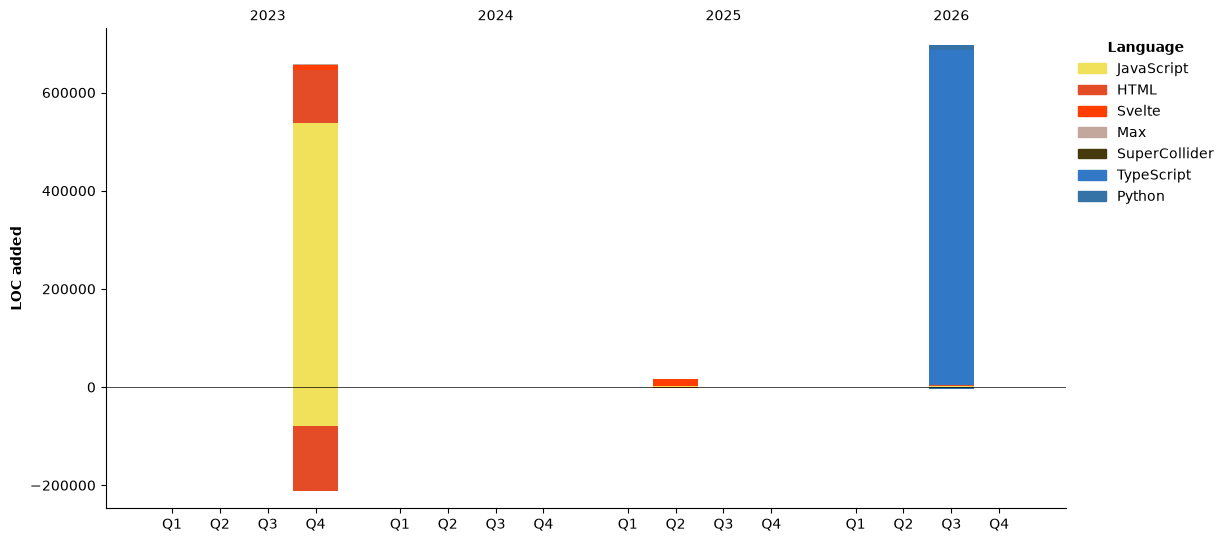
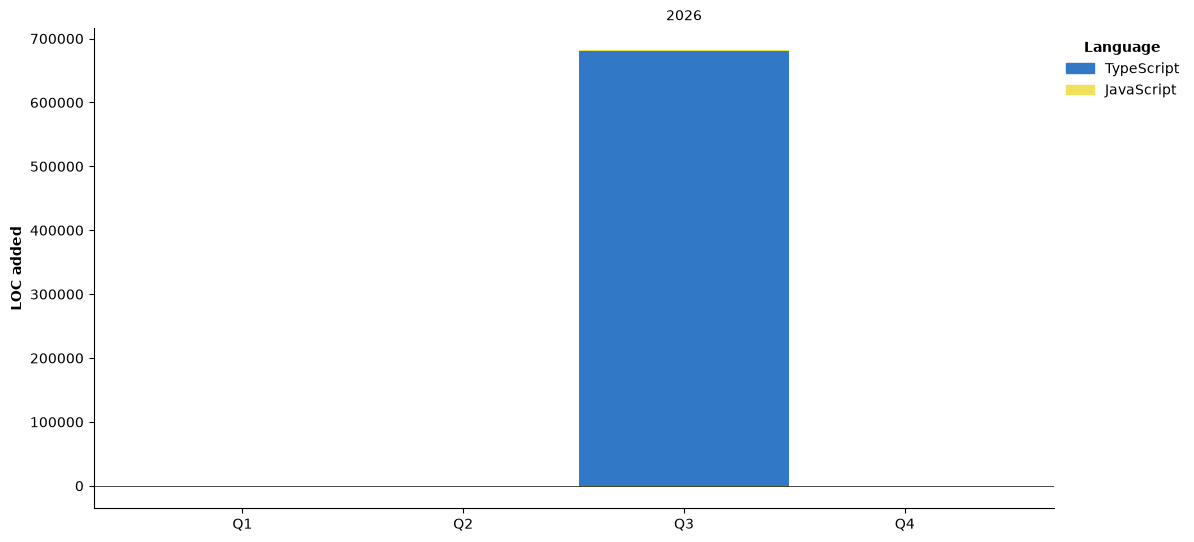
Update Activity Overview

diff --git a/README.md b/README.md
@@ -8,93 +8,58 @@
 ## ⚡ Activity Overview
 
 <!--START_SECTION:activity-->
-![Code Time](http://img.shields.io/badge/Code%20Time-24%20hrs%2034%20mins-blue?style=flat)
+![Code Time](http://img.shields.io/badge/Code%20Time-28%20hrs%2028%20mins-blue?style=flat)
 
-![AI Code Time](http://img.shields.io/badge/AI%20Code%20Time-6%20hrs%2024%20mins-blue?style=flat)
+![Lines of code](https://img.shields.io/badge/From%20Hello%20World%20I%27ve%20Written-681.84%20thousand%20lines%20of%20code-blue?style=flat)
 
-![Profile Views](http://img.shields.io/badge/Profile%20Views-3-blue?style=flat)
-
-![Lines of code](https://img.shields.io/badge/From%20Hello%20World%20I%27ve%20Written-1.37%20million%20lines%20of%20code-blue?style=flat)
-
-**🐱 My GitHub Data** 
-
-> 📦 8.5 MB Used in GitHub's Storage 
- > 
-> 🏆 358 Contributions in the Year 2026
- > 
-> 🚫 Not Opted to Hire
- > 
-> 📜 20 Public Repositories 
- > 
-> 🔑 9 Private Repositories 
- > 
-**I'm a Night 🦉** 
+**I'm an Early 🐤** 
 
 ```text
-🌞 Morning                22 commits          ░░░░░░░░░░░░░░░░░░░░░░░░░   01.76 % 
-🌆 Daytime                554 commits         ███████████░░░░░░░░░░░░░░   44.32 % 
-🌃 Evening                384 commits         ████████░░░░░░░░░░░░░░░░░   30.72 % 
-🌙 Night                  290 commits         ██████░░░░░░░░░░░░░░░░░░░   23.20 % 
+🌞 Morning                11 commits          ⣿⣿⣀⣀⣀⣀⣀⣀⣀⣀⣀⣀⣀⣀⣀⣀⣀⣀⣀⣀⣀⣀⣀⣀⣀   08.27 % 
+🌆 Daytime                61 commits          ⣿⣿⣿⣿⣿⣿⣿⣿⣿⣿⣿⣀⣀⣀⣀⣀⣀⣀⣀⣀⣀⣀⣀⣀⣀   45.86 % 
+🌃 Evening                61 commits          ⣿⣿⣿⣿⣿⣿⣿⣿⣿⣿⣿⣀⣀⣀⣀⣀⣀⣀⣀⣀⣀⣀⣀⣀⣀   45.86 % 
+🌙 Night                  0 commits           ⣀⣀⣀⣀⣀⣀⣀⣀⣀⣀⣀⣀⣀⣀⣀⣀⣀⣀⣀⣀⣀⣀⣀⣀⣀   00.00 % 
 ```
-📅 **I'm Most Productive on Tuesday** 
+📅 **I'm Most Productive on Wednesday** 
 
 ```text
-Monday                   64 commits          █░░░░░░░░░░░░░░░░░░░░░░░░   05.12 % 
-Tuesday                  348 commits         ███████░░░░░░░░░░░░░░░░░░   27.84 % 
-Wednesday                279 commits         ██████░░░░░░░░░░░░░░░░░░░   22.32 % 
-Thursday                 125 commits         ██░░░░░░░░░░░░░░░░░░░░░░░   10.00 % 
-Friday                   315 commits         ██████░░░░░░░░░░░░░░░░░░░   25.20 % 
-Saturday                 51 commits          █░░░░░░░░░░░░░░░░░░░░░░░░   04.08 % 
-Sunday                   68 commits          █░░░░░░░░░░░░░░░░░░░░░░░░   05.44 % 
+Monday                   9 commits           ⣿⣿⣀⣀⣀⣀⣀⣀⣀⣀⣀⣀⣀⣀⣀⣀⣀⣀⣀⣀⣀⣀⣀⣀⣀   06.77 % 
+Tuesday                  0 commits           ⣀⣀⣀⣀⣀⣀⣀⣀⣀⣀⣀⣀⣀⣀⣀⣀⣀⣀⣀⣀⣀⣀⣀⣀⣀   00.00 % 
+Wednesday                65 commits          ⣿⣿⣿⣿⣿⣿⣿⣿⣿⣿⣿⣿⣀⣀⣀⣀⣀⣀⣀⣀⣀⣀⣀⣀⣀   48.87 % 
+Thursday                 0 commits           ⣀⣀⣀⣀⣀⣀⣀⣀⣀⣀⣀⣀⣀⣀⣀⣀⣀⣀⣀⣀⣀⣀⣀⣀⣀   00.00 % 
+Friday                   42 commits          ⣿⣿⣿⣿⣿⣿⣿⣿⣀⣀⣀⣀⣀⣀⣀⣀⣀⣀⣀⣀⣀⣀⣀⣀⣀   31.58 % 
+Saturday                 0 commits           ⣀⣀⣀⣀⣀⣀⣀⣀⣀⣀⣀⣀⣀⣀⣀⣀⣀⣀⣀⣀⣀⣀⣀⣀⣀   00.00 % 
+Sunday                   17 commits          ⣿⣿⣿⣀⣀⣀⣀⣀⣀⣀⣀⣀⣀⣀⣀⣀⣀⣀⣀⣀⣀⣀⣀⣀⣀   12.78 % 
 ```
 
 
 📊 **This Week I Spent My Time On** 
 
 ```text
-🕑 Time Zone: Asia/Seoul
-
 💬 Programming Languages: 
-Text                     3 hrs 45 mins       ████████████████████████░   94.10 % 
-JSON                     8 mins              █░░░░░░░░░░░░░░░░░░░░░░░░   03.38 % 
-INI                      5 mins              █░░░░░░░░░░░░░░░░░░░░░░░░   02.21 % 
-CSS                      0 secs              ░░░░░░░░░░░░░░░░░░░░░░░░░   00.21 % 
-Other                    0 secs              ░░░░░░░░░░░░░░░░░░░░░░░░░   00.09 % 
+Text                     3 hrs 48 mins       ⣿⣿⣿⣿⣿⣿⣿⣿⣿⣿⣿⣿⣀⣀⣀⣀⣀⣀⣀⣀⣀⣀⣀⣀⣀   47.74 % 
+TypeScript               3 hrs 10 mins       ⣿⣿⣿⣿⣿⣿⣿⣿⣿⣿⣀⣀⣀⣀⣀⣀⣀⣀⣀⣀⣀⣀⣀⣀⣀   39.75 % 
+JSON                     20 mins             ⣿⣀⣀⣀⣀⣀⣀⣀⣀⣀⣀⣀⣀⣀⣀⣀⣀⣀⣀⣀⣀⣀⣀⣀⣀   04.31 % 
+TSConfig                 14 mins             ⣿⣀⣀⣀⣀⣀⣀⣀⣀⣀⣀⣀⣀⣀⣀⣀⣀⣀⣀⣀⣀⣀⣀⣀⣀   03.11 % 
+HTML                     6 mins              ⣀⣀⣀⣀⣀⣀⣀⣀⣀⣀⣀⣀⣀⣀⣀⣀⣀⣀⣀⣀⣀⣀⣀⣀⣀   01.39 % 
 
 🔥 Editors: 
-VS Code                  3 hrs 59 mins       █████████████████████████   100.00 % 
+VS Code                  7 hrs 58 mins       ⣿⣿⣿⣿⣿⣿⣿⣿⣿⣿⣿⣿⣿⣿⣿⣿⣿⣿⣿⣿⣿⣿⣿⣿⣿   100.00 % 
 
 🐱💻 Projects: 
-Yanji_Zone_H             3 hrs 59 mins       █████████████████████████   100.00 % 
-
-💻 Operating System: 
-Windows                  3 hrs 59 mins       █████████████████████████   100.00 % 
+Yanji_Zone_H             4 hrs 2 mins        ⣿⣿⣿⣿⣿⣿⣿⣿⣿⣿⣿⣿⣿⣀⣀⣀⣀⣀⣀⣀⣀⣀⣀⣀⣀   50.70 % 
+Ableton_Extension_test   2 hrs 30 mins       ⣿⣿⣿⣿⣿⣿⣿⣿⣀⣀⣀⣀⣀⣀⣀⣀⣀⣀⣀⣀⣀⣀⣀⣀⣀   31.37 % 
+extensions-sdk-1.0.0-beta1 hr 3 mins         ⣿⣿⣿⣀⣀⣀⣀⣀⣀⣀⣀⣀⣀⣀⣀⣀⣀⣀⣀⣀⣀⣀⣀⣀⣀   13.36 % 
+Ablton_Extensions_SDK_1.011 mins             ⣿⣀⣀⣀⣀⣀⣀⣀⣀⣀⣀⣀⣀⣀⣀⣀⣀⣀⣀⣀⣀⣀⣀⣀⣀   02.40 % 
+Ableton_Extensions_SDK_1.6 mins              ⣀⣀⣀⣀⣀⣀⣀⣀⣀⣀⣀⣀⣀⣀⣀⣀⣀⣀⣀⣀⣀⣀⣀⣀⣀   01.31 % 
 ```
-
-🤖 **AI Coding This Week** 
-
-```text
-No AI Coding Activity Tracked This Week
-```
-
-**I Mostly Code in JavaScript** 
-
-```text
-JavaScript               11 repos            ██████████████░░░░░░░░░░░   55.00 % 
-Svelte                   3 repos             ████░░░░░░░░░░░░░░░░░░░░░   15.00 % 
-HTML                     2 repos             ██░░░░░░░░░░░░░░░░░░░░░░░   10.00 % 
-TypeScript               1 repo              █░░░░░░░░░░░░░░░░░░░░░░░░   05.00 % 
-Python                   1 repo              █░░░░░░░░░░░░░░░░░░░░░░░░   05.00 % 
-```
-
-
 
 **Timeline**
 
 ![Lines of Code chart](https://raw.githubusercontent.com/oseconds/oseconds/main/assets/bar_graph.png)
 
 
- Last Updated on 31/07/2026 15:04:32 UTC
+ Last Updated on 2026-07-31 UTC
 <!--END_SECTION:activity-->
 
 
